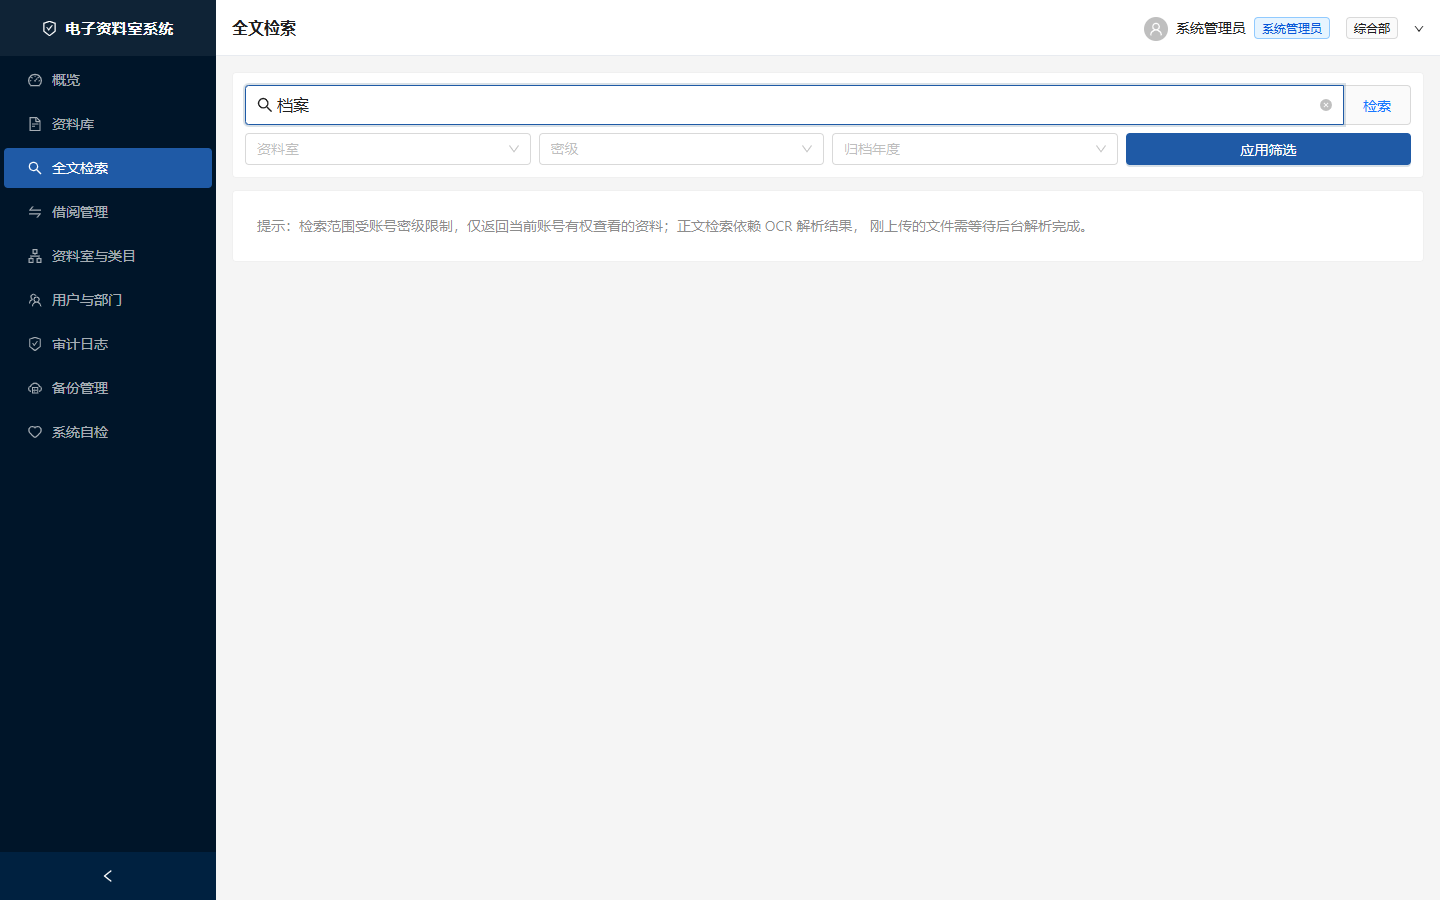
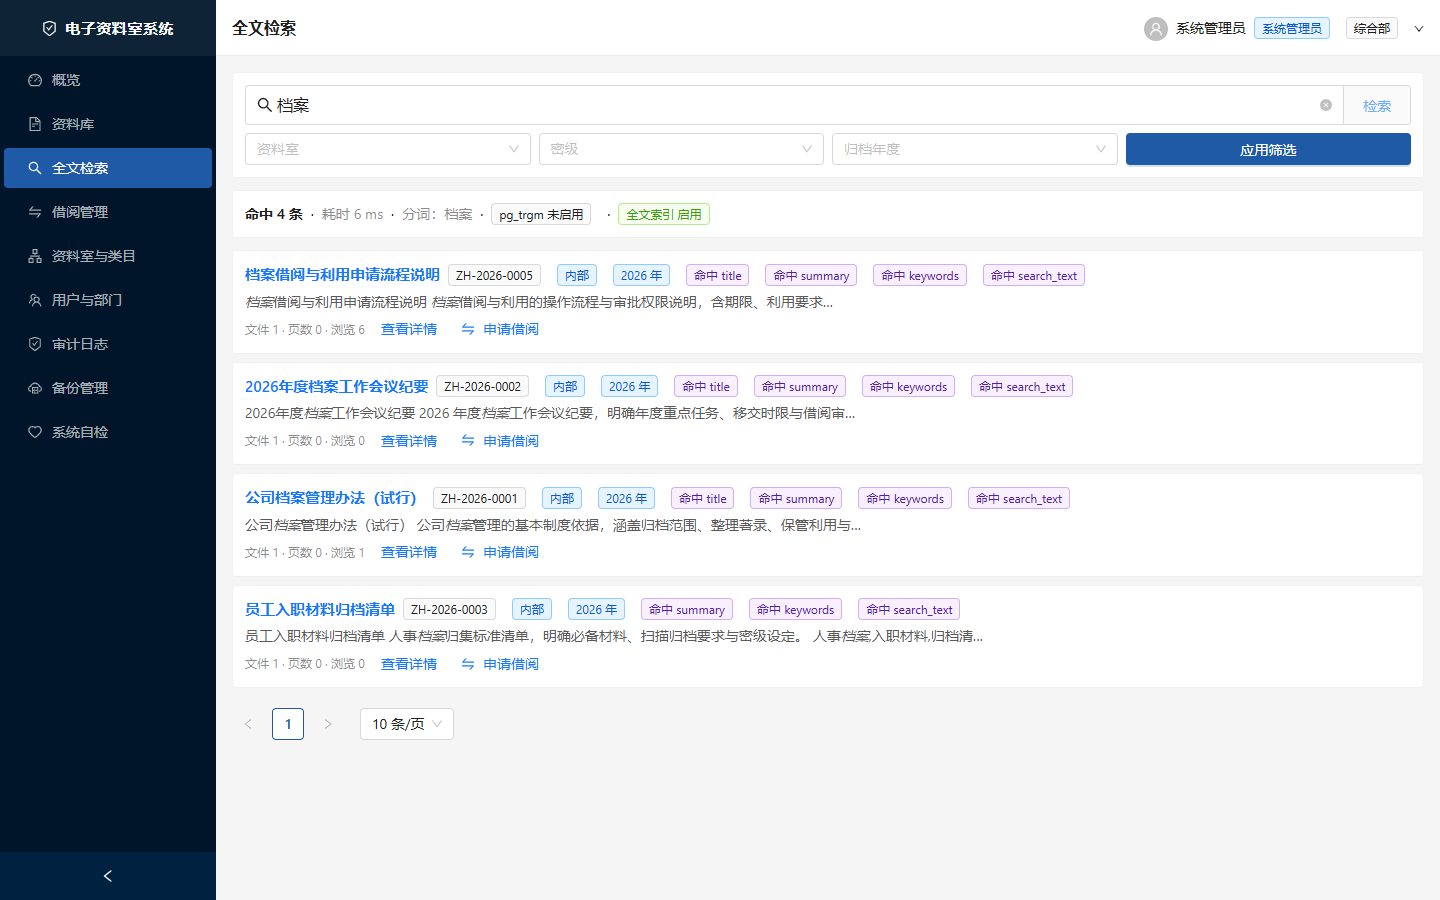
fix(frontend): 修复全文检索页结果渲染白屏，新增全局错误边界
- Search.tsx: 摘要渲染不再用 Typography.Paragraph ellipsis 展开，改用 CSS 三行截断；
  renderSnippet 兼容后端 <em>/<mark>/<b>/<strong> 高亮，避免字面标签外露
- 新增 components/AppErrorBoundary.tsx：渲染异常降级为提示页（重试/返回首页）
- AppLayout.tsx: 内容区按 pathname 包裹 ErrorBoundary，单页异常不再拖白整站
- App.tsx: Routes 外层加整站兜底 ErrorBoundary
- docs/screenshots/03-search.png: 重拍为带检索结果的检索页
- README: 已知限制与路线图同步（全局错误边界已完成）

diff --git a/frontend/src/components/AppErrorBoundary.tsx b/frontend/src/components/AppErrorBoundary.tsx
@@ -1,0 +1,65 @@
+import React from 'react'
+import { Button, Result, Space, Typography } from 'antd'
+
+interface Props {
+  children: React.ReactNode
+  /** 出现异常时的提示语，默认「页面渲染出错」 */
+  title?: string
+}
+
+interface State {
+  error: Error | null
+}
+
+/**
+ * 全局错误边界：捕获子树渲染异常，避免单个组件抛错导致整棵 React 树卸载（白屏）。
+ * 用法：包裹路由出口（内容区）以保留侧栏与顶栏，或包裹 Routes 作为兜底。
+ */
+export class AppErrorBoundary extends React.Component<Props, State> {
+  state: State = { error: null }
+
+  static getDerivedStateFromError(error: Error): State {
+    return { error }
+  }
+
+  componentDidCatch(error: Error, info: React.ErrorInfo) {
+    // 保留堆栈便于排障；生产环境可在此接入日志上报
+    console.error('[AppErrorBoundary]', error, info.componentStack)
+  }
+
+  private handleRetry = () => {
+    this.setState({ error: null })
+  }
+
+  private handleHome = () => {
+    window.location.href = '/'
+  }
+
+  render() {
+    const { error } = this.state
+    if (error) {
+      return (
+        <Result
+          status="warning"
+          title={this.props.title || '页面渲染出错'}
+          subTitle={error.message}
+          extra={
+            <Space>
+              <Button type="primary" onClick={this.handleRetry}>
+                重试
+              </Button>
+              <Button onClick={this.handleHome}>返回首页</Button>
+            </Space>
+          }
+        >
+          <Typography.Paragraph type="secondary" style={{ marginBottom: 0 }}>
+            异常已被隔离，侧边导航仍可继续使用；若反复出现请截图控制台报错反馈。
+          </Typography.Paragraph>
+        </Result>
+      )
+    }
+    return this.props.children
+  }
+}
+
+export default AppErrorBoundary

diff --git a/frontend/src/pages/Search.tsx b/frontend/src/pages/Search.tsx
@@ -21,8 +21,7 @@ function renderSnippet(text: string | null | undefined): string {
     .replace(/</g, '&lt;')
     .replace(/>/g, '&gt;')
   return escaped
-    .replace(/&lt;mark&gt;/g, '<mark>')
-    .replace(/&lt;\/mark&gt;/g, '</mark>')
+    .replace(/&lt;(\/?)(mark|em|b|strong)&gt;/g, '<$1$2>')
 }
 
 const Search: React.FC = () => {
@@ -182,9 +181,18 @@ const Search: React.FC = () => {
                     ))}
                   </Space>
                   {item.snippet && (
-                    <Typography.Paragraph
-                      style={{ margin: 0 }}
-                      ellipsis={{ rows: 3, expandable: true, symbol: '展开' }}
+                    <div
+                      className="search-snippet"
+                      style={{
+                        margin: 0,
+                        color: 'rgba(0, 0, 0, 0.65)',
+                        fontSize: 14,
+                        lineHeight: 1.5715,
+                        display: '-webkit-box',
+                        WebkitLineClamp: 3,
+                        WebkitBoxOrient: 'vertical',
+                        overflow: 'hidden',
+                      }}
                       dangerouslySetInnerHTML={{ __html: renderSnippet(item.snippet) }}
                     />
                   )}

diff --git a/frontend/src/App.tsx b/frontend/src/App.tsx
@@ -3,6 +3,7 @@ import { Navigate, Route, Routes, useLocation } from 'react-router-dom'
 import { Spin } from 'antd'
 import { AuthProvider, useAuth } from './auth/AuthContext'
 import { AppLayout } from './layout/AppLayout'
+import { AppErrorBoundary } from './components/AppErrorBoundary'
 import Login from './pages/Login'
 import ChangePassword from './pages/ChangePassword'
 
@@ -44,6 +45,7 @@ export default function App() {
   return (
     <AuthProvider>
       <Suspense fallback={<PageFallback />}>
+        <AppErrorBoundary>
         <Routes>
           <Route path="/login" element={<Login />} />
           <Route
@@ -123,6 +125,7 @@ export default function App() {
           </Route>
           <Route path="*" element={<Navigate to="/" replace />} />
         </Routes>
+        </AppErrorBoundary>
       </Suspense>
     </AuthProvider>
   )

diff --git a/frontend/src/layout/AppLayout.tsx b/frontend/src/layout/AppLayout.tsx
@@ -18,6 +18,7 @@ import {
 import { Outlet, useLocation, useNavigate } from 'react-router-dom'
 import { useAuth } from '../auth/AuthContext'
 import { APP_NAME, http, normalizeError } from '../api/client'
+import { AppErrorBoundary } from '../components/AppErrorBoundary'
 
 const { Header, Sider, Content } = Layout
 
@@ -152,7 +153,9 @@ export const AppLayout: React.FC = () => {
           </Dropdown>
         </Header>
         <Content className="app-content">
-          <Outlet />
+          <AppErrorBoundary key={location.pathname}>
+            <Outlet />
+          </AppErrorBoundary>
         </Content>
       </Layout>
 

diff --git a/README.md b/README.md
@@ -194,14 +194,15 @@ CI 在每次 push / PR 到 `main` 时自动执行（[`.github/workflows/ci.yml`]
 
 - **OCR 引擎默认未随仓库提供**：`paddleocr` 与离线模型需自行安装，缺失时扫描件解析标记为 `skipped`（不影响入库与电子版文本抽取）；
 - 便携版仅监听 `127.0.0.1` 明文 HTTP；局域网多终端访问需按 `deploy/` 配置 Nginx + 自签证书（证书须含服务器 IP SAN）；
-- 无全局前端错误边界，组件异常会导致整页空白（可按需加 `ErrorBoundary`）；
+- 前端已内置全局错误边界（`AppErrorBoundary`，路由级 + 整站兜底），单页渲染异常仅降级为该页提示，不再拖白整站；
 - 审计表受触发器保护，记录不可修改或删除（设计特性）；
 - 演示/验收脚本内含演示口令，仅用于本地测试。
 
 ## 路线图
 
 - [ ] 扫描件 OCR 依赖内置化与模型离线分发
-- [ ] 全局错误边界与前端监控
+- [x] 全局错误边界（`AppErrorBoundary`：路由级隔离 + 整站兜底，含重试/返回首页）
+- [ ] 前端监控与异常上报
 - [ ] 检索性能优化（可选 pgvector 语义检索）
 - [ ] 批量导入与元数据模板
 - [ ] 多因素认证
